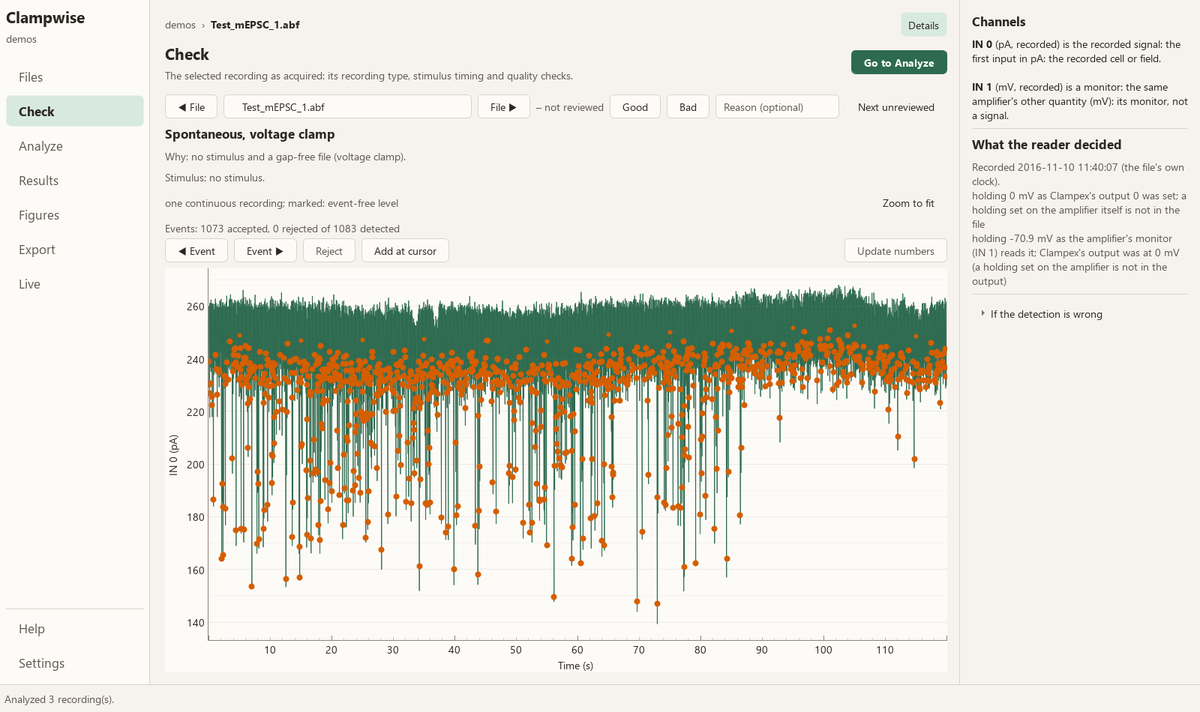
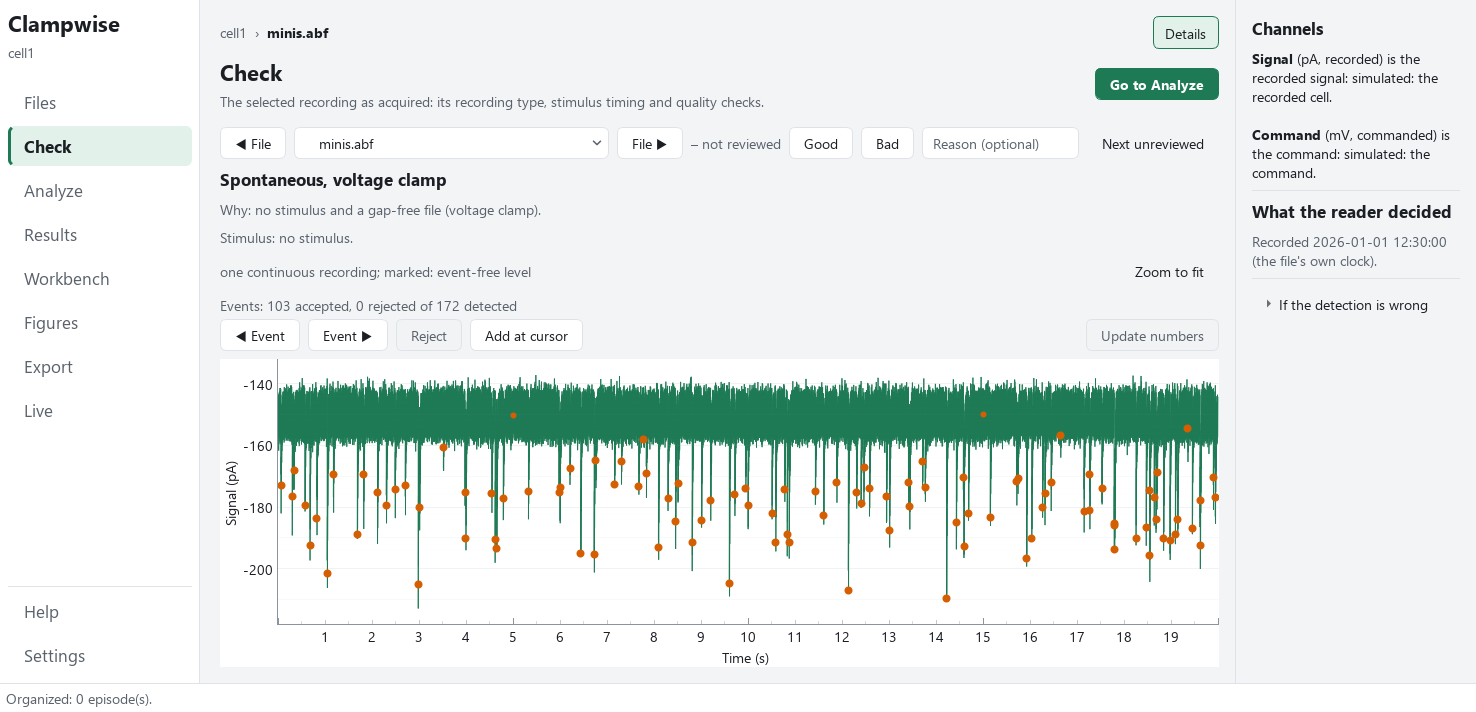
The builder's warnings scroll under the legend; the README shows the new look, the builder and the Workbench
In a short builder window the wrapped warning lines under-reported their height and were drawn over the
figure's legend: they now sit in a scrolling area of their own, hidden when there is nothing to warn
about, and the legend pane starts tall enough for its heading, the legend and a warning line. The README's
screenshots (Check, Results, Figures, and now the figure builder) are retaken in the new light theme from
simulated recordings, and its list of what Clampwise does names the figure builder and the Workbench.

diff --git a/src/clampwise/app/builder.py b/src/clampwise/app/builder.py
@@ -1256,12 +1256,19 @@ class Builder(QtWidgets.QMainWindow):
         bl.addWidget(self.caption, 1)
         self.warnings = QtWidgets.QWidget()
         self.warnings.setLayout(box("v", "xs"))
-        bl.addWidget(self.warnings)
+        # in a scrolling area of their own: wrapped lines under-report their height, and a short pane would
+        # otherwise draw them over the legend
+        self.warnings_area = QtWidgets.QScrollArea()
+        self.warnings_area.setWidget(self.warnings)
+        self.warnings_area.setWidgetResizable(True)
+        self.warnings_area.setFrameShape(QtWidgets.QFrame.NoFrame)
+        self.warnings_area.setHorizontalScrollBarPolicy(QtCore.Qt.ScrollBarAlwaysOff)
+        bl.addWidget(self.warnings_area, 1)
         bottom.setLayout(bl)
         right.addWidget(bottom)
         right.setStretchFactor(0, 4)
         right.setStretchFactor(1, 1)
-        right.setSizes([640, 150])
+        right.setSizes([600, 200])                    # the legend, its heading and a warning line all in view
         return right
 
     def _f(self, key: str, control: QtWidgets.QWidget, into) -> QtWidgets.QWidget:
@@ -3223,6 +3230,8 @@ class Builder(QtWidgets.QMainWindow):
             b = widgets.Badge("warn", w, w)
             b.setWordWrap(True)
             lay.addWidget(b)
+        lay.addStretch(1)
+        self.warnings_area.setVisible(bool(warns))     # no empty band under the legend when nothing is wrong
 
     def caption_text(self) -> str:
         return self.caption.toPlainText()

diff --git a/README.md b/README.md
@@ -20,14 +20,21 @@ number with how it was measured. On a rig it can also watch the experiment live,
   literature, and a flag where something looks wrong. Flags never change or exclude a value.
 - **Check, correct and review**: drag a measured point to remeasure it, accept or reject events one at a time, mark
   files good or bad. Every decision is kept in the project and can be undone.
-- **Figures**: standard graphs for each analysis, heat maps, comparisons across recordings and groups with statistics,
-  and a figure builder with presets. **Export** to an Excel workbook (each column's definition attached) or CSV.
+- **Figures**: standard graphs for each analysis (a light experiment opens on its sweeps, the test of a connection
+  against sham windows and the cell's health), heat maps, and comparisons across recordings and groups with
+  statistics. **The figure builder**: click, drag and rewrite anything on the figure; the table each panel is drawn
+  from and its statistics beside it; exported at its exact size with the text kept as text, ready for Illustrator.
+- **Workbench**: measure anything by hand, as in Clampfit: regions, cursors, Clampfit's statistics, fits and
+  transforms. A measurement is kept with how it was made, and can run on every file of a protocol.
+- **Export** to an Excel workbook (each column's definition attached) or CSV.
 - **Projects**: the analysis is saved beside the recordings, so work resumes where it was left; cells, slices and
   conditions are read from folder names or entered by hand.
 
 ![Results: every measurement with its definition](docs/images/results.png)
 
 ![Figures: four graphs at a time](docs/images/figures.png)
+
+![The figure builder: the figure, its legend, and the settings of what is selected](docs/images/builder.png)
 
 ## Install
 

diff --git a/CHANGELOG.md b/CHANGELOG.md
@@ -9,7 +9,8 @@
   plot. Every text colour is checked against the WCAG AA contrast ratios, as before.
 - Fixed: a figure's logarithmic axis wrote its labels as 4 × 10⁻¹ (now 0.4, 2, 10); a panel of traces was
   wrongly warned that its rows "look like a spreadsheet's summaries" (a trace named "average"); in the Workbench a
-  click on overlapping sweeps could take the sample after the click, and so another sweep.
+  click on overlapping sweeps could take the sample after the click, and so another sweep; in a short builder
+  window a warning could be drawn over the figure's legend.
 - **The Workbench works the way Clampfit is used.**
   - **Cursors.** Tick Cursors for two lines to drag over the trace; the line above the trace reads each one's
     time and value, Δt, the difference, the slope and the mean between them, on the sweep stepped to (else the
